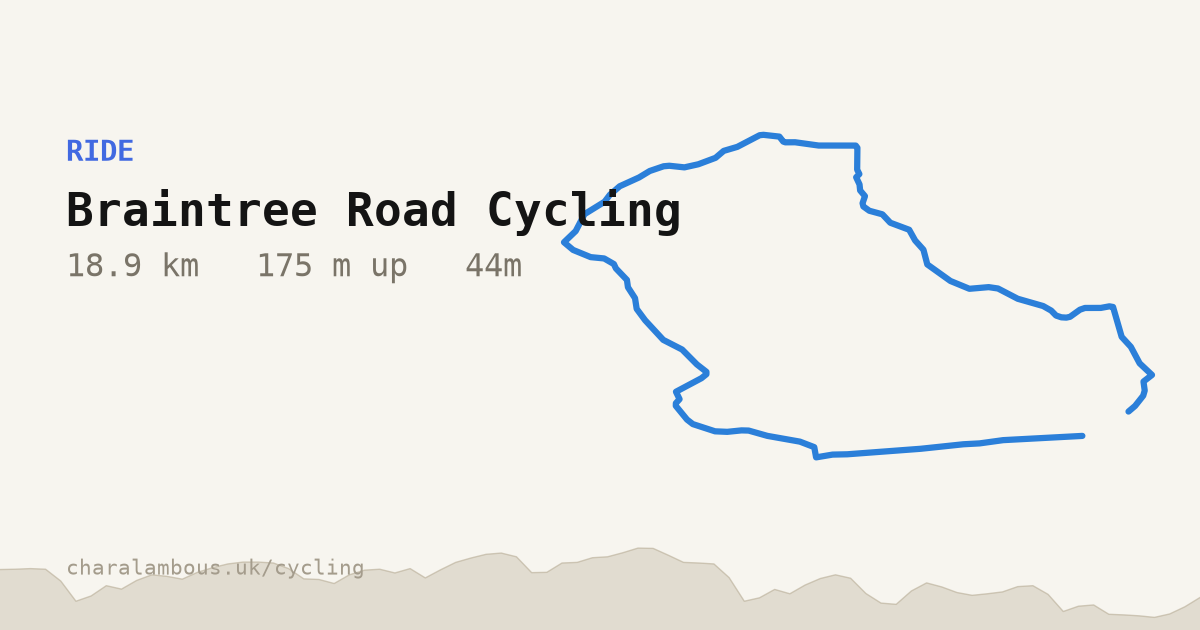
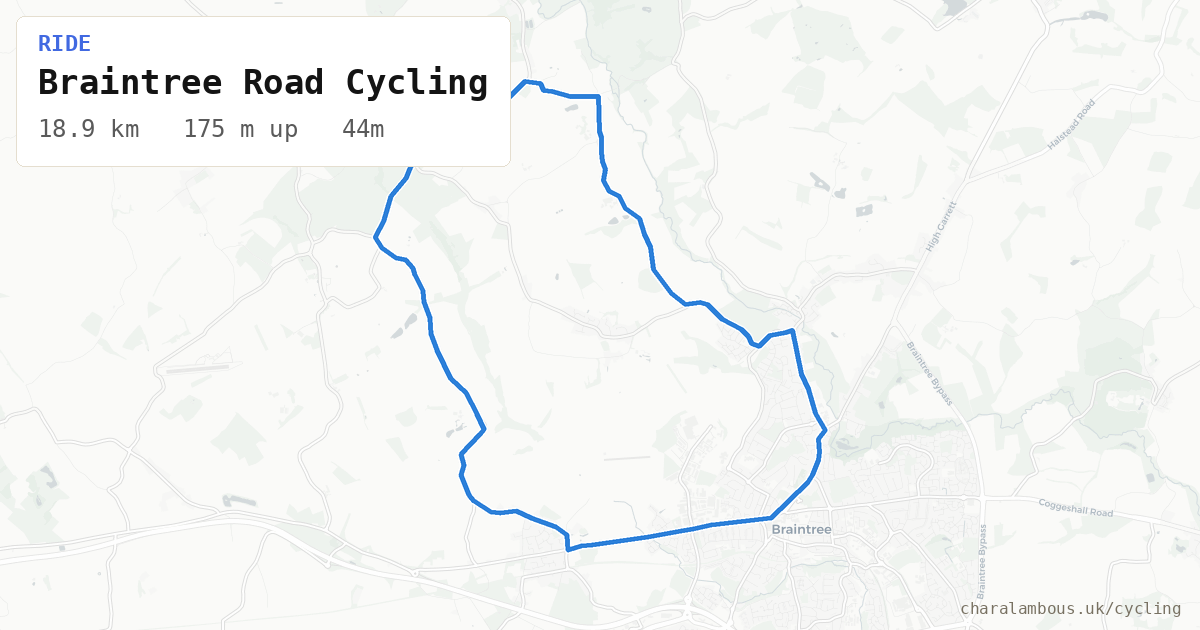
OG card: real map tiles + closed route + zone-coloured power graph (staticmap + Pillow), matching the ride widget

diff --git a/scripts/garmin-sync/og_card.py b/scripts/garmin-sync/og_card.py
@@ -1,88 +1,119 @@
 """Generate a per-ride Open Graph preview card (1200x630 PNG).
 
-Used for rich link unfurls: when a ride URL is shared, apps show this card.
-Left column = ride type / name / stats, right = the route outline, a faint
-elevation strip runs along the bottom. Matplotlib (bundles DejaVu fonts, so it
-renders the same on macOS and the Linux CI runner).
+Rich link unfurls: when a ride URL is shared, apps show this card. It mirrors
+the ride widget — real map tiles + the route (loop closed), the zone-coloured
+power graph along the bottom, and a stats panel. staticmap fetches/stitches the
+tiles and projects the route; Pillow draws the overlays.
 """
 import math
 
-import matplotlib
-matplotlib.use("Agg")
-import matplotlib.pyplot as plt  # noqa: E402
-import matplotlib.font_manager as fm  # noqa: E402
+from PIL import Image, ImageDraw, ImageFont
+from staticmap import StaticMap, Line
 
-BG = "#f7f5ef"
-INK = "#141414"
+import matplotlib.font_manager as fm
+
+W, H = 1200, 630
+FTP = 220
+TILE_URL = "https://a.basemaps.cartocdn.com/light_all/{z}/{x}/{y}.png"
 BLUE = "#2b7fd9"
-ACCENT = "#4169E1"
-MUT = "#7a7468"
-MONO = fm.FontProperties(family="DejaVu Sans Mono")
-MONOB = fm.FontProperties(family="DejaVu Sans Mono", weight="bold")
+# zone fill (Zwift-style, translucent) and the power line
+ZBOUNDS = [0.55, 0.75, 0.90, 1.05]
+ZFILL = [(148, 163, 184), (96, 165, 250), (52, 211, 153), (251, 191, 36), (248, 113, 113)]
+ZALPHA = 92
+POWER_LINE = (192, 57, 43, 235)
 
 
-def make_og_card(out_path, ride_type, name, dist_km, climb_m, duration, coords, elev):
-    """coords: list of (lat, lon).  elev: list of elevation values (may hold None)."""
-    W, H, DPI = 1200, 630, 100
-    fig = plt.figure(figsize=(W / DPI, H / DPI), dpi=DPI)
-    fig.patch.set_facecolor(BG)
-    ax = fig.add_axes([0, 0, 1, 1])
-    ax.set_xlim(0, 1)
-    ax.set_ylim(0, 1)
-    ax.axis("off")
-    ax.set_facecolor(BG)
+def _font(bold=False, size=24):
+    path = fm.findfont(fm.FontProperties(family="DejaVu Sans Mono", weight="bold" if bold else "normal"))
+    return ImageFont.truetype(path, size)
 
-    # --- faint elevation strip along the bottom (the "graph" hint) ---
-    ev = [e for e in (elev or []) if e is not None]
-    if len(ev) > 3:
-        n = len(elev)
-        lo, hi = min(ev), max(ev)
-        span = (hi - lo) or 1.0
-        last = ev[0]
-        xs, ys = [], []
-        for i, e in enumerate(elev):
-            if e is None:
-                e = last
-            last = e
-            xs.append(i / (n - 1))
-            ys.append(0.02 + ((e - lo) / span) * 0.11)
-        ax.fill_between(xs, 0, ys, color="#ccc4b2", alpha=0.5, lw=0, zorder=1)
-        ax.plot(xs, ys, color="#b7ac95", lw=1.0, alpha=0.6, zorder=1)
 
-    # --- route outline on the right ---
+def _smooth(a, w=5):
+    half = w // 2
+    out = []
+    for i in range(len(a)):
+        s, c = 0, 0
+        for j in range(i - half, i + half + 1):
+            if 0 <= j < len(a) and a[j] is not None:
+                s += a[j]
+                c += 1
+        out.append(s / c if c else None)
+    return out
+
+
+def _zidx(w):
+    f = w / FTP
+    for i, b in enumerate(ZBOUNDS):
+        if f < b:
+            return i
+    return 4
+
+
+def _draw_power(base, power):
+    """Zone-coloured power graph footer (translucent, so the map reads through)."""
+    if not power or len([p for p in power if p is not None]) < 4:
+        return base
+    power = _smooth(power, 7)  # trend, not spikes (matches the ride page)
+    vals = [p for p in power if p is not None]
+    n = len(power)
+    x0, x1 = 14, W - 14
+    y_bot = H - 14
+    y_top = H * 0.60  # peak reaches up to here
+    pmax = max(vals)
+    ymax = max(50, math.ceil((pmax or 150) / 50) * 50)
+
+    def px(i):
+        return x0 + (i / (n - 1)) * (x1 - x0)
+
+    def py(v):
+        return y_bot - min((v or 0) / ymax, 1.0) * (y_bot - y_top)
+
+    ov = Image.new("RGBA", base.size, (0, 0, 0, 0))
+    d = ImageDraw.Draw(ov)
+    for i in range(1, n):
+        a, b = power[i - 1], power[i]
+        if a is None or b is None:
+            continue
+        r, g, bl = ZFILL[_zidx(b)]
+        d.polygon([(px(i - 1), y_bot), (px(i - 1), py(a)), (px(i), py(b)), (px(i), y_bot)],
+                  fill=(r, g, bl, ZALPHA))
+    line = [(px(i), py(power[i])) for i in range(n) if power[i] is not None]
+    if len(line) > 1:
+        d.line(line, fill=POWER_LINE, width=3, joint="curve")
+    return Image.alpha_composite(base, ov)
+
+
+def _draw_panel(base, ride_type, name, dist_km, climb_m, duration):
+    d = ImageDraw.Draw(base)
+    f_type, f_name, f_stat = _font(True, 22), _font(True, 34), _font(False, 24)
+    stats = "   ".join([s for s in [
+        (f"{dist_km} km" if dist_km is not None else None),
+        (f"{climb_m} m up" if climb_m is not None else None),
+        (str(duration) if duration else None),
+    ] if s])
+    pad = 22
+    widths = [d.textlength(name, font=f_name), d.textlength(ride_type.upper(), font=f_type), d.textlength(stats, font=f_stat)]
+    pw = int(max(widths)) + pad * 2
+    ph = 150
+    d.rounded_rectangle([16, 16, 16 + pw, 16 + ph], radius=8, fill=(255, 255, 255, 224), outline=(229, 222, 207, 255), width=1)
+    d.text((16 + pad, 30), ride_type.upper(), font=f_type, fill=(65, 105, 225, 255))
+    d.text((16 + pad, 62), name, font=f_name, fill=(20, 20, 20, 255))
+    d.text((16 + pad, 114), stats, font=f_stat, fill=(90, 90, 90, 255))
+    d.text((W - 18, H - 16), "charalambous.uk/cycling", font=_font(False, 16), fill=(120, 113, 98, 255), anchor="rs")
+    return base
+
+
+def make_og_card(out_path, ride_type, name, dist_km, climb_m, duration, coords, power):
+    """coords: (lat, lon) points.  power: power_profile list (may hold None)."""
+    m = StaticMap(W, H, url_template=TILE_URL, padding_x=70, padding_y=80)
     if coords and len(coords) > 1:
-        latm = sum(c[0] for c in coords) / len(coords)
-        k = math.cos(math.radians(latm)) or 1.0
-        rx = [c[1] * k for c in coords]
-        ry = [c[0] for c in coords]
-        minx, maxx = min(rx), max(rx)
-        miny, maxy = min(ry), max(ry)
-        rw = (maxx - minx) or 1e-9
-        rh = (maxy - miny) or 1e-9
-        bx0, bx1, by0, by1 = 0.47, 0.96, 0.16, 0.9  # target box (figure coords)
-        scale = min((bx1 - bx0) / rw, (by1 - by0) / rh)
-        cx, cy = (minx + maxx) / 2, (miny + maxy) / 2
-        fx, fy = (bx0 + bx1) / 2, (by0 + by1) / 2
-        px = [fx + (x - cx) * scale for x in rx]
-        py = [fy + (y - cy) * scale for y in ry]
-        ax.plot(px, py, color=BLUE, lw=4.5, solid_capstyle="round",
-                solid_joinstyle="round", zorder=3)
-
-    # --- text column on the left ---
-    fig.text(0.055, 0.78, ride_type.upper(), fontproperties=MONOB, fontsize=21,
-             color=ACCENT, va="top")
-    fig.text(0.055, 0.70, name, fontproperties=MONOB, fontsize=33, color=INK, va="top")
-    lines = []
-    if dist_km is not None:
-        lines.append(f"{dist_km} km")
-    if climb_m is not None:
-        lines.append(f"{climb_m} m up")
-    if duration:
-        lines.append(str(duration))
-    fig.text(0.055, 0.60, "   ".join(lines), fontproperties=MONO, fontsize=23,
-             color=MUT, va="top")
-    fig.text(0.055, 0.08, "charalambous.uk/cycling", fontproperties=MONO,
-             fontsize=15, color="#a49c8c", va="bottom")
-
-    fig.savefig(out_path, facecolor=BG, dpi=DPI)
-    plt.close(fig)
+        lonlat = [(c[1], c[0]) for c in coords]
+        # close the loop when the ride starts and finishes near the same place
+        if abs(lonlat[0][0] - lonlat[-1][0]) < 0.05 and abs(lonlat[0][1] - lonlat[-1][1]) < 0.05:
+            lonlat = lonlat + [lonlat[0]]
+        m.add_line(Line(lonlat, "#ffffff", 8))   # white halo so the route reads on any tile
+        m.add_line(Line(lonlat, BLUE, 5))
+    img = m.render().convert("RGBA")
+    img = _draw_power(img, power)
+    img = _draw_panel(img, ride_type, name, dist_km, climb_m, duration)
+    img.convert("RGB").save(out_path)

diff --git a/scripts/garmin-sync/hugo_writer.py b/scripts/garmin-sync/hugo_writer.py
@@ -304,7 +304,7 @@ def write_activity(activity, gpx_xml, streams=None):
                 str(OG_DIR / f"{activity_id}.png"),
                 ride_type_label(normalized_power, avg_power),
                 name, distance_km, elevation_m, duration_fmt,
-                gpx_coords(simplified_gpx), profiles.get("elevation_profile") or [],
+                gpx_coords(simplified_gpx), profiles.get("power_profile") or [],
             )
         except Exception as e:
             print(f"  OG card failed for {activity_id}: {e}")
